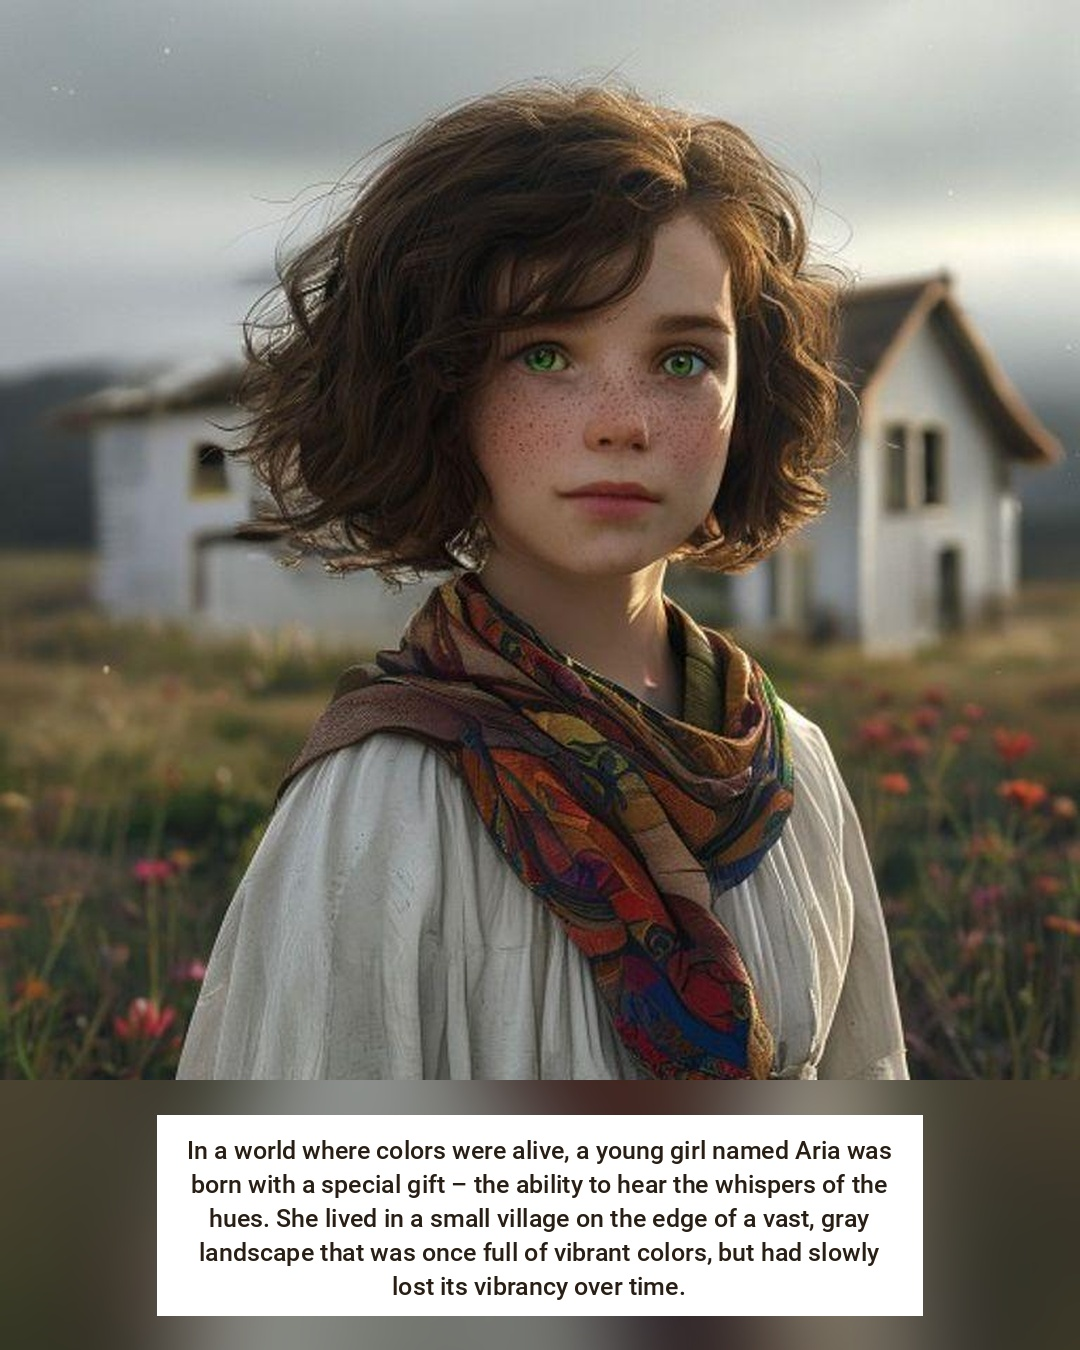
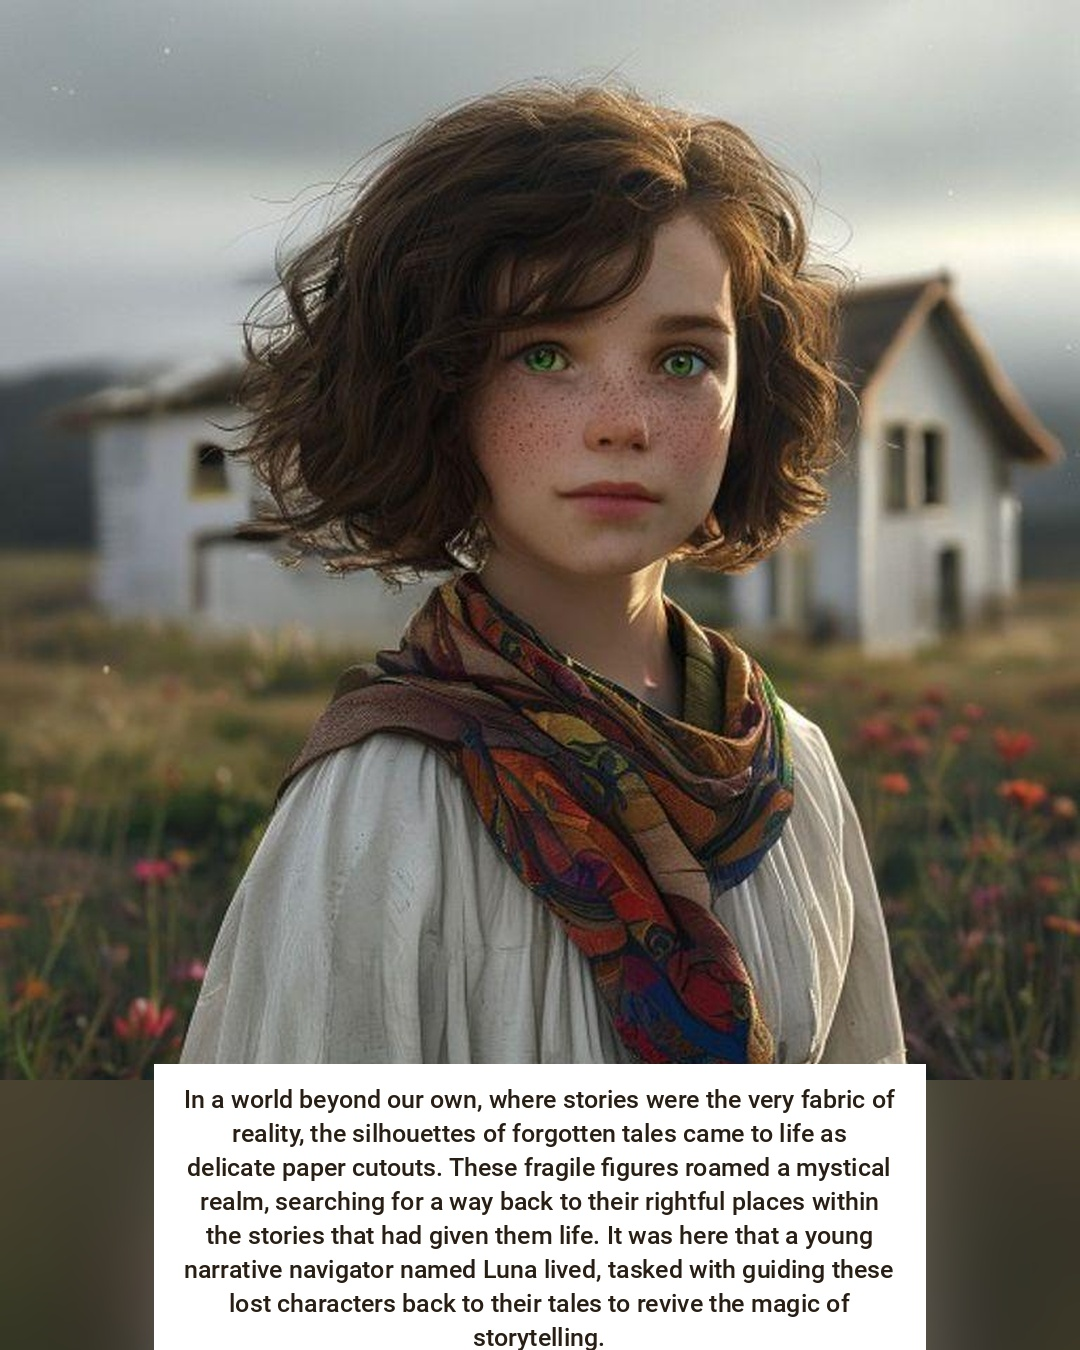
Add story: The Shadow Storykeepers

Changed region(s): [[0.1222, 0.7778, 0.8556, 1.0]]

diff --git a/in_a_world_where_the/story.html b/in_a_world_where_the/story.html
@@ -6,4 +6,4 @@
         .page p { font-size: 1.5em; color: #555; }
         .cover { text-align: center; page-break-after: always; display: flex; flex-direction: column; justify-content: center; height: 90vh; }
         .cover img { max-width: 100%; border-radius: 20px; box-shadow: 0 10px 20px rgba(0,0,0,0.2); }
-        </style></head><body><div class='cover'><h1>The Chroma Whisperer: A Tale of Harmony and Hue</h1><img src='images/cover.jpg'></div><div class='page'><img src='images/page_1.jpg'><p>In a world where colors were alive, a young girl named Aria was born with a special gift – the ability to hear the whispers of the hues. She lived in a small village on the edge of a vast, gray landscape that was once full of vibrant colors, but had slowly lost its vibrancy over time.</p></div><div class='page'><img src='images/page_2.jpg'><p>One day, a mischievous hue named Reddy appeared to Aria in the form of a playful, red fox. Reddy told Aria that the hues were in disarray and that the world was losing its color. Aria knew she had to help, but she didn't know where to start.</p></div><div class='page'><img src='images/page_3.jpg'><p>Reddy led Aria to a hidden cave deep within the gray landscape, where the hues were gathered in a great, swirling storm. Aria saw hues of every color, each one vying for attention and struggling to be heard. She knew she had to find a way to harmonize the hues and restore balance to the world.</p></div><div class='page'><img src='images/page_4.jpg'><p>Aria began to sing a gentle melody, one that she hoped would soothe the hues and bring them into harmony. As she sang, the hues began to calm, their swirling storm slowing to a gentle dance. Aria's voice was like a balm to the hues, and they began to respond to her song.</p></div><div class='page'><img src='images/page_5.jpg'><p>As the hues harmonized, the world outside the cave began to transform. The gray landscape slowly gave way to a vibrant, colorful tapestry. Flowers bloomed, trees regained their greenery, and the sky turned a brilliant blue. Aria's song had brought the world back to life.</p></div><div class='page'><img src='images/page_6.jpg'><p>The hues, now in harmony, thanked Aria for her help. They told her that she was a true chroma whisperer, one who could hear and harmonize the colors of the world. Aria knew that she had found her true calling, and she vowed to use her gift to keep the world in balance and harmony.</p></div><div class='page'><img src='images/page_7.jpg'><p>From that day on, Aria traveled the world, using her gift to harmonize the hues and bring balance to the landscape. She became known as the chroma whisperer, a hero to the hues and a guardian of the world's colors.</p></div><div class='page'><img src='images/page_8.jpg'><p>And so, Aria's journey as the chroma whisperer continued, a never-ending quest to keep the world in harmony and balance. For in a world where colors were alive, Aria knew that she had a special role to play in keeping the hues in tune.</p></div></body></html>
+        </style></head><body><div class='cover'><h1>The Shadow Storykeepers</h1><img src='images/cover.jpg'></div><div class='page'><img src='images/page_1.jpg'><p>In a world beyond our own, where stories were the very fabric of reality, the silhouettes of forgotten tales came to life as delicate paper cutouts. These fragile figures roamed a mystical realm, searching for a way back to their rightful places within the stories that had given them life. It was here that a young narrative navigator named Luna lived, tasked with guiding these lost characters back to their tales to revive the magic of storytelling.</p></div><div class='page'><img src='images/page_2.jpg'><p>Luna's journey began in a small, cozy village on the outskirts of the mystical realm. The villagers, who were also narrative navigators, had been training Luna in the art of storytelling and the magic of guiding lost characters back to their tales. With her trusty wand and leather-bound book by her side, Luna set out into the unknown, ready to face whatever challenges lay ahead.</p></div><div class='page'><img src='images/page_3.jpg'><p>As Luna traveled through the mystical realm, she encountered all manner of forgotten characters, each one more fascinating than the last. There was a swashbuckling pirate, a clever detective, and even a misunderstood monster, all searching for a way back to their stories. Luna used her wand and book to guide them, carefully navigating the twists and turns of the realm to find the perfect tale for each character.</p></div><div class='page'><img src='images/page_4.jpg'><p>But Luna's journey was not without its challenges. A dark force, known only as the Shadow, threatened to destroy the mystical realm and all the forgotten characters within it. The Shadow was a dark, formless mass that seemed to have a life of its own, and it would stop at nothing to prevent Luna from guiding the characters back to their tales.</p></div><div class='page'><img src='images/page_5.jpg'><p>Despite the dangers, Luna pressed on, using her wand and book to guide the characters back to their tales. With each success, the mystical realm grew stronger, and the Shadow grew weaker. The characters, once forgotten, were now remembered, and their stories were once again alive and vibrant.</p></div><div class='page'><img src='images/page_6.jpg'><p>But the Shadow was not so easily defeated. It launched a final, desperate attack on Luna and the characters, seeking to destroy the mystical realm and all the stories within it. Luna, with her wand and book, stood ready to face the Shadow, determined to save the realm and all its inhabitants.</p></div><div class='page'><img src='images/page_7.jpg'><p>With a wave of her wand and a whispered spell, Luna summoned the power of the stories themselves to aid her in the battle against the Shadow. The characters, now remembered and alive, used their unique skills and abilities to help Luna defeat the Shadow and save the mystical realm.</p></div><div class='page'><img src='images/page_8.jpg'><p>And so, with the Shadow defeated and the mystical realm saved, Luna returned to the village, hailed as a hero by the narrative navigators and the characters she had guided back to their tales. The stories, once forgotten, were now alive and vibrant, and the mystical realm was once again a place of wonder and magic.</p></div></body></html>

diff --git a/in_a_world_where_the/story.md b/in_a_world_where_the/story.md
@@ -1,4 +1,4 @@
-# The Chroma Whisperer: A Tale of Harmony and Hue
+# The Shadow Storykeepers
 
 ![Cover](images/cover.jpg)
 
@@ -6,47 +6,47 @@
 
 ![Page 1](images/page_1.jpg)
 
-In a world where colors were alive, a young girl named Aria was born with a special gift – the ability to hear the whispers of the hues. She lived in a small village on the edge of a vast, gray landscape that was once full of vibrant colors, but had slowly lost its vibrancy over time.
+In a world beyond our own, where stories were the very fabric of reality, the silhouettes of forgotten tales came to life as delicate paper cutouts. These fragile figures roamed a mystical realm, searching for a way back to their rightful places within the stories that had given them life. It was here that a young narrative navigator named Luna lived, tasked with guiding these lost characters back to their tales to revive the magic of storytelling.
 
 ## Page 2
 
 ![Page 2](images/page_2.jpg)
 
-One day, a mischievous hue named Reddy appeared to Aria in the form of a playful, red fox. Reddy told Aria that the hues were in disarray and that the world was losing its color. Aria knew she had to help, but she didn't know where to start.
+Luna's journey began in a small, cozy village on the outskirts of the mystical realm. The villagers, who were also narrative navigators, had been training Luna in the art of storytelling and the magic of guiding lost characters back to their tales. With her trusty wand and leather-bound book by her side, Luna set out into the unknown, ready to face whatever challenges lay ahead.
 
 ## Page 3
 
 ![Page 3](images/page_3.jpg)
 
-Reddy led Aria to a hidden cave deep within the gray landscape, where the hues were gathered in a great, swirling storm. Aria saw hues of every color, each one vying for attention and struggling to be heard. She knew she had to find a way to harmonize the hues and restore balance to the world.
+As Luna traveled through the mystical realm, she encountered all manner of forgotten characters, each one more fascinating than the last. There was a swashbuckling pirate, a clever detective, and even a misunderstood monster, all searching for a way back to their stories. Luna used her wand and book to guide them, carefully navigating the twists and turns of the realm to find the perfect tale for each character.
 
 ## Page 4
 
 ![Page 4](images/page_4.jpg)
 
-Aria began to sing a gentle melody, one that she hoped would soothe the hues and bring them into harmony. As she sang, the hues began to calm, their swirling storm slowing to a gentle dance. Aria's voice was like a balm to the hues, and they began to respond to her song.
+But Luna's journey was not without its challenges. A dark force, known only as the Shadow, threatened to destroy the mystical realm and all the forgotten characters within it. The Shadow was a dark, formless mass that seemed to have a life of its own, and it would stop at nothing to prevent Luna from guiding the characters back to their tales.
 
 ## Page 5
 
 ![Page 5](images/page_5.jpg)
 
-As the hues harmonized, the world outside the cave began to transform. The gray landscape slowly gave way to a vibrant, colorful tapestry. Flowers bloomed, trees regained their greenery, and the sky turned a brilliant blue. Aria's song had brought the world back to life.
+Despite the dangers, Luna pressed on, using her wand and book to guide the characters back to their tales. With each success, the mystical realm grew stronger, and the Shadow grew weaker. The characters, once forgotten, were now remembered, and their stories were once again alive and vibrant.
 
 ## Page 6
 
 ![Page 6](images/page_6.jpg)
 
-The hues, now in harmony, thanked Aria for her help. They told her that she was a true chroma whisperer, one who could hear and harmonize the colors of the world. Aria knew that she had found her true calling, and she vowed to use her gift to keep the world in balance and harmony.
+But the Shadow was not so easily defeated. It launched a final, desperate attack on Luna and the characters, seeking to destroy the mystical realm and all the stories within it. Luna, with her wand and book, stood ready to face the Shadow, determined to save the realm and all its inhabitants.
 
 ## Page 7
 
 ![Page 7](images/page_7.jpg)
 
-From that day on, Aria traveled the world, using her gift to harmonize the hues and bring balance to the landscape. She became known as the chroma whisperer, a hero to the hues and a guardian of the world's colors.
+With a wave of her wand and a whispered spell, Luna summoned the power of the stories themselves to aid her in the battle against the Shadow. The characters, now remembered and alive, used their unique skills and abilities to help Luna defeat the Shadow and save the mystical realm.
 
 ## Page 8
 
 ![Page 8](images/page_8.jpg)
 
-And so, Aria's journey as the chroma whisperer continued, a never-ending quest to keep the world in harmony and balance. For in a world where colors were alive, Aria knew that she had a special role to play in keeping the hues in tune.
+And so, with the Shadow defeated and the mystical realm saved, Luna returned to the village, hailed as a hero by the narrative navigators and the characters she had guided back to their tales. The stories, once forgotten, were now alive and vibrant, and the mystical realm was once again a place of wonder and magic.
 
